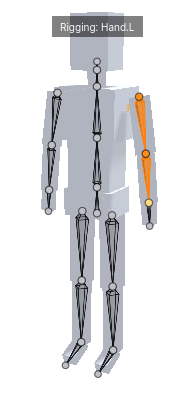
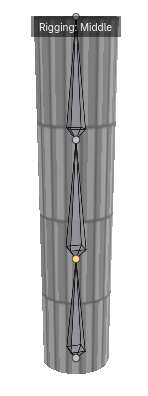
Bevel corners: no spikes, round three-way corners; manual trimmed, simpler pose and rigging pictures

diff --git a/src/hw_ops.cpp b/src/hw_ops.cpp
@@ -2245,6 +2245,12 @@ std::vector<int> bevel_edges(Mesh &m, const std::vector<Edge> &edges, float amou
 			}
 			const Face F = m.faces[f];
 			const int n = F.size();
+			{
+				std::unordered_set<int> seen(F.v.begin(), F.v.end());
+				if ((int)seen.size() != n) {
+					continue; // (a ring through a vertex twice: not a corner's patch)
+				}
+			}
 			Vector3 c, nn;
 			for (int i = 0; i < n; i++) {
 				c += m.pos[F.v[i]];
@@ -2283,15 +2289,107 @@ std::vector<int> bevel_edges(Mesh &m, const std::vector<Edge> &edges, float amou
 				var += (d[i] - md) * (d[i] - md);
 			}
 			Vector3 mid = c;
+			bool on_sphere = false;
+			Vector3 sc; // (the sphere's middle and radius)
+			float sr = 0.0f;
 			if (var > 1e-12f) {
 				const float t = -cov / (2.0f * var);
 				const float r2 = mq + 2.0f * t * md + t * t;
 				if (t > 0.0f && r2 > t * t) {
 					const float lift = std::sqrt(r2) - t;
-					if (lift > 0.0f && lift < size) {
+					if (lift > 0.0f && lift < off * 2.0f) {
 						mid = c + nn * lift;
 					}
+					sc = c - nn * t;
+					sr = std::sqrt(r2);
+					on_sphere = true;
+					for (int i = 0; i < n && on_sphere; i++) {
+						on_sphere = std::fabs(m.pos[F.v[i]].distance_to(sc) - sr) < sr * 0.03f;
+					}
 				}
+			}
+			// A round corner of three bevels: its ring three runs of `s` edges between three tips (where it turns most) -
+			// a triangle of a grid on the sphere, s rows of it, as round as the bevels.
+			if (on_sphere && n % 3 == 0 && n >= 6) {
+				const int s = n / 3;
+				auto turn = [&](int i) {
+					const Vector3 a = m.pos[F.v[(i + n - 1) % n]], b = m.pos[F.v[i]], d = m.pos[F.v[(i + 1) % n]];
+					const Vector3 e0 = (b - a).normalized(), e1 = (d - b).normalized();
+					return std::acos(std::max(-1.0f, std::min(1.0f, e0.dot(e1))));
+				};
+				int t0 = 0;
+				float best_turn = -1.0f;
+				for (int t = 0; t < s; t++) {
+					const float tt = turn(t) + turn(t + s) + turn(t + 2 * s);
+					if (tt > best_turn) {
+						best_turn = tt;
+						t0 = t;
+					}
+				}
+				const std::vector<Corner> cs = corners_of(F);
+				auto ring_at = [&](int k) { return cs[(t0 + k) % n]; };
+				// grid point (i, j): i steps toward B, j toward C (a = s - i - j toward A)
+				std::vector<Corner> grid((s + 1) * (s + 1));
+				auto gid = [&](int i, int j) -> Corner & { return grid[i * (s + 1) + j]; };
+				for (int i = 0; i <= s; i++) {
+					for (int j = 0; i + j <= s; j++) {
+						const int a = s - i - j;
+						if (j == 0) {
+							gid(i, j) = ring_at(i); // (A -> B)
+						} else if (a == 0) {
+							gid(i, j) = ring_at(s + j); // (B -> C)
+						} else if (i == 0) {
+							gid(i, j) = ring_at(3 * s - j); // (C -> A, backwards)
+						} else {
+							// (along the grid's three lines through it, between the ring's points at their ends, on the
+							// sphere: the mean - matches the ring's spacing)
+							auto at = [&](int k) { return (m.pos[ring_at(k % n).v] - sc).normalized(); };
+							auto slerp = [](const Vector3 &p, const Vector3 &q, float w) {
+								const float d = std::max(-1.0f, std::min(1.0f, p.dot(q)));
+								const float th = std::acos(d);
+								if (th < 1e-5f) {
+									return p;
+								}
+								return (p * std::sin((1.0f - w) * th) + q * std::sin(w * th)) / std::sin(th);
+							};
+							// j fixed: from C-A (i = 0) to B-C (a = 0); i fixed: from A-B to B-C; a fixed: from A-B to C-A
+							const Vector3 l1 = slerp(at(3 * s - j), at(s + j), (float)i / (float)(s - j));
+							const Vector3 l2 = slerp(at(i), at(2 * s - i), (float)j / (float)(s - i));
+							const Vector3 l3 = slerp(at(s - a), at(2 * s + a), (float)j / (float)(s - a));
+							const Vector3 dir = (l1 + l2 + l3).normalized();
+							const float wa = (float)a / s, wb = (float)i / s, wc = (float)j / s;
+							const Corner &A = ring_at(0), &B = ring_at(s), &C = ring_at(2 * s);
+							Corner g = lerp_corner(A, B, wb / std::max(1e-6f, wa + wb), 0);
+							g = lerp_corner(g, C, wc, m.add_vertex(sc + dir * sr));
+							gid(i, j) = g;
+						}
+					}
+				}
+				std::vector<Face> made;
+				for (int i = 0; i < s; i++) {
+					for (int j = 0; i + j < s; j++) {
+						made.push_back(face_from({ gid(i, j), gid(i + 1, j), gid(i, j + 1) }, F));
+						if (i + j + 1 < s) {
+							made.push_back(face_from({ gid(i + 1, j), gid(i + 1, j + 1), gid(i, j + 1) }, F));
+						}
+					}
+				}
+				// (the ring's own way round: A -> B -> C)
+				m.faces[f] = made[0];
+				for (size_t k2 = 1; k2 < made.size(); k2++) {
+					m.faces.push_back(made[k2]);
+					out.push_back((int)m.faces.size() - 1);
+				}
+				continue;
+			}
+			// (every triangle of the fan facing the way the face does, else the face stays as it is)
+			bool fan_ok = true;
+			for (int i = 0; i < n && fan_ok; i++) {
+				const Vector3 tn = (m.pos[F.v[(i + 1) % n]] - m.pos[F.v[i]]).cross(mid - m.pos[F.v[i]]);
+				fan_ok = tn.length() > 1e-12f && tn.normalized().dot(nn) > 0.3f;
+			}
+			if (!fan_ok) {
+				continue;
 			}
 			const std::vector<Corner> cs = corners_of(F);
 			Corner cm;

diff --git a/docs/manual_en.md b/docs/manual_en.md
@@ -949,13 +949,7 @@ the whole scene.
 
 ![](images/box_cutter.png)
 
-"Frame" in the cut's panel - the hole's sides (as W makes them) and a frame round it:
-- sides: "Top Side", "Bottom Side", "Left Side", "Right Side"; "Outer Side", "Inner Side" or "Both Sides";
-- "Profile", "Width" (on the wall), "Depth" (out of it);
-- a cut makes the frame a sweep on a curve of its own, a cutter keeps it with it.
-
-A frame of its own shape: "Edit Frame Shape" in the panel of a cutter, windows or a building - the cross section as a
-curve (profile Custom).
+"Frame" in the cut's panel: the hole's sides and a frame round it.
 
 ![](images/cut_frame.png)
 
@@ -1092,8 +1086,7 @@ Makes a plain MeshInstance3D of the selected Hewn meshes and curves.
 
 ### Export OBJ / Export glTF
 
-Saves the selected mesh to a file (glTF or FBX). A skinned mesh goes out with its skeleton, its skin and the
-animations of the AnimationPlayer above the skeleton.
+Saves the selected mesh to a file (glTF or FBX), a character with its skeleton and animations.
 
 ### Object Menu
 **Key:** RMB
@@ -1390,7 +1383,7 @@ Paints one vertex.
 ### Fill
 ![](icons/tool_fill.svg)
 
-Paints the selection or a connected part. "Fill Spread" on the toolbar - each channel varied at random.
+Paints the selection or a connected part.
 
 ### Select by Color
 
@@ -1699,9 +1692,7 @@ Tab on an outline, two neighboring points selected, right click -> "Building Sid
 
 Windows (HewnWindows3D) are set out along the outline's sides; each opening gets a cutter, a scene or a mesh.
 
-The building's "Windows" group - for all its windows:
-- a scene or a mesh in the opening, "Fit", the cut ("None", "Box", "Around the Content");
-- "Frame": the wall side, profile, "Frame Shape", width, depth.
+The building's "Windows" group: a scene or a mesh in the openings and a frame for all its windows.
 
 ![](images/building.png)
 
@@ -1783,12 +1774,8 @@ The keys are changed in Editor -> Editor Settings -> Shortcuts, the "hewn" secti
 
 ### MCP Server
 
-An assistant on this computer (an MCP client) works in the scene:
-- nodes, properties, Hewn shapes, mesh and menu operations, the selection, undo;
-- a wall, a poly shape and path stairs through points, an opening in a wall;
-- rays, overlaps, distances, a mesh check, a dry run;
-- a picture of the view from any point, running the game, the editor's errors;
-- textures, UVs, seams, hotspots, an atlas made of an image.
+An assistant on this computer (an MCP client) works in the scene: nodes, Hewn shapes and operations, textures,
+pictures of the view, running the game.
 
 - **MCP -> Enabled** - on (off by default). The address: `http://127.0.0.1:7777/mcp` (HTTP), given to the MCP
   client.
